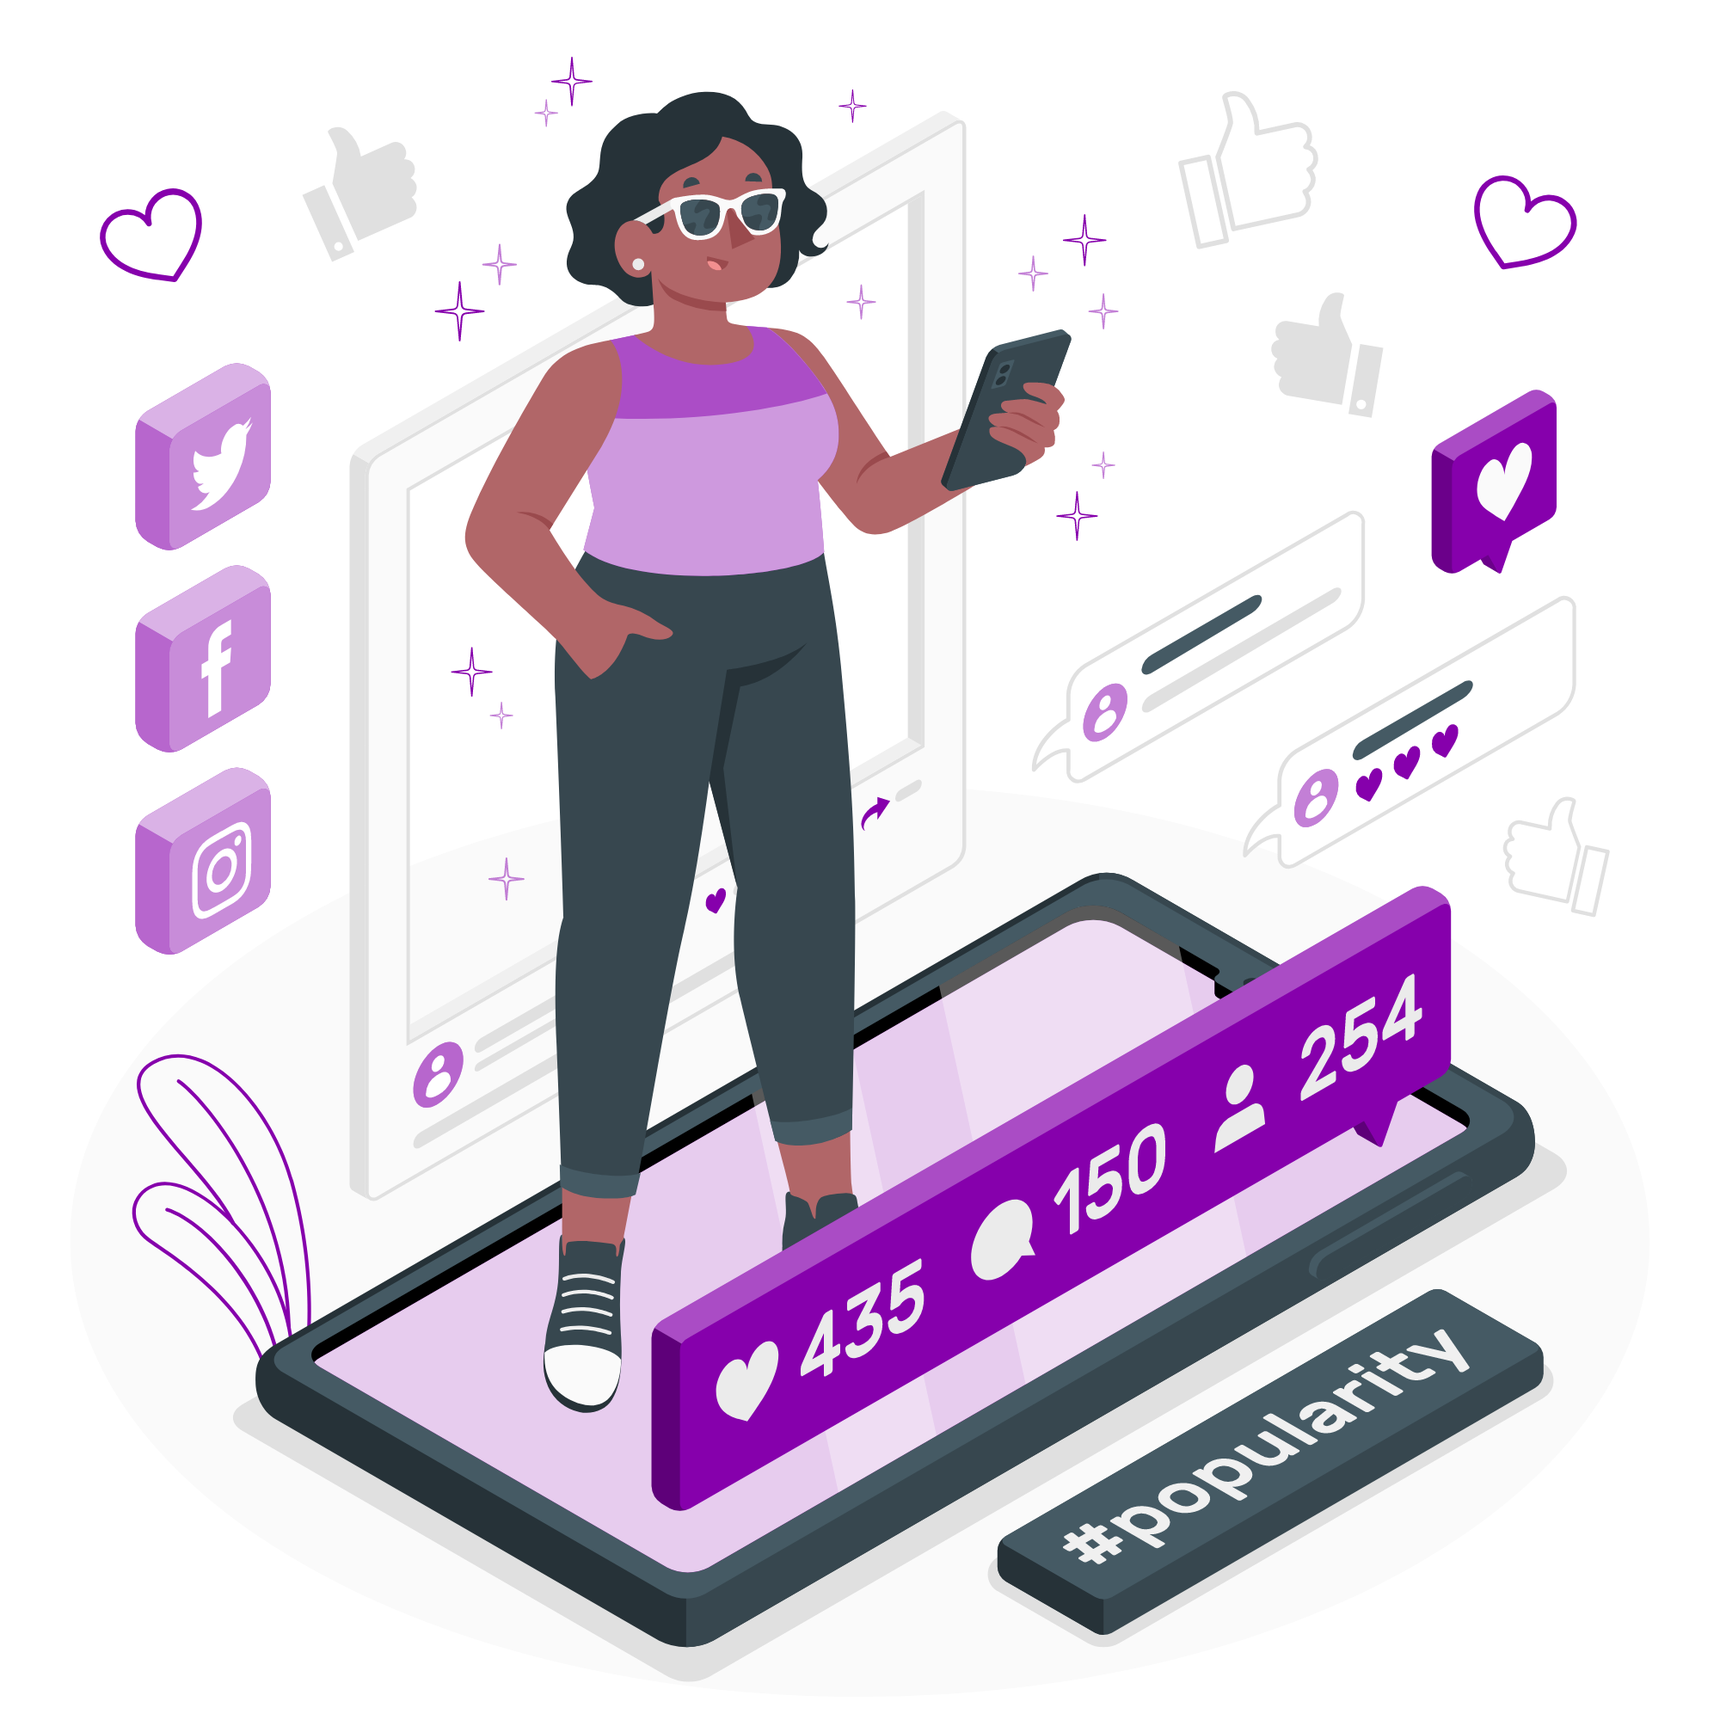
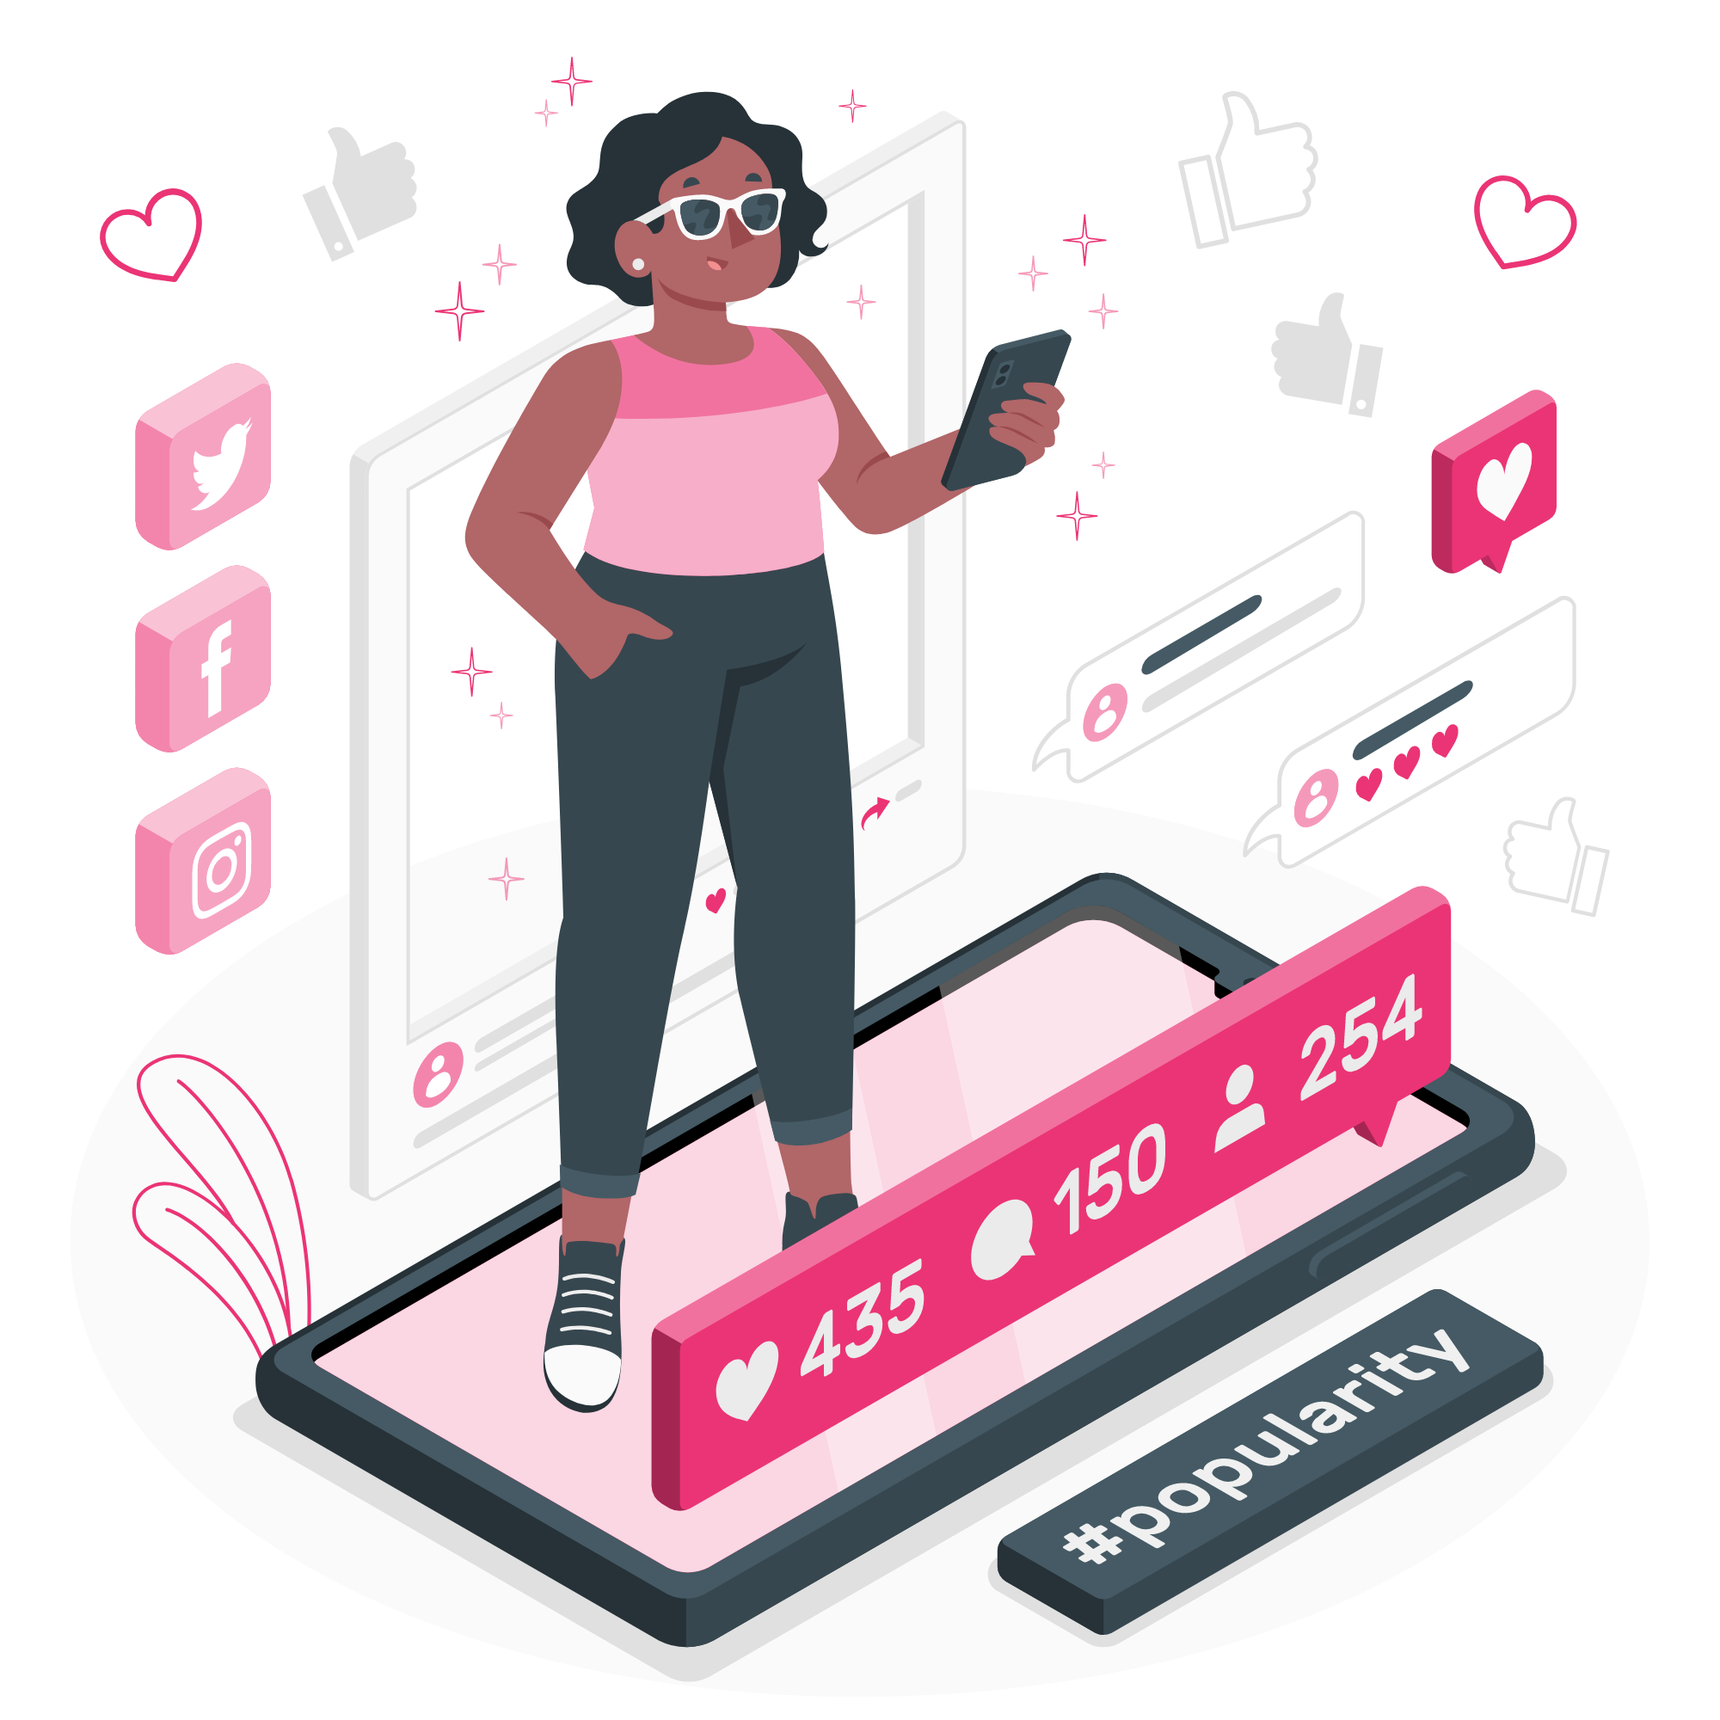
new

diff --git a/src/Components/Feature.jsx b/src/Components/Feature.jsx
@@ -8,7 +8,7 @@ import { motion, useAnimation } from "framer-motion";
 import { Transition } from "@headlessui/react";
 const Feature = () => {
   return (
-    <section className=" relative border-t-4 border-violet-400 bg-gray-900  pb-8">
+    <section className=" relative border-t-4 border-pink-600 bg-gray-900  pb-8">
       <img src={Background} className=" invisible sm: visible md:visible bg-gray-100 h-full w-full bg-local absolute opacity-[0.15] "></img>
       <div className="py-8 px-4 mx-auto max-w-screen-xl font-Poppins lg:py-16 lg:px-16  rounded-md">
         <div className="mx-auto max-w-screen-md text-center mb-8 lg:mb-12">
@@ -24,7 +24,7 @@ const Feature = () => {
                 >
           <h2 className=" py-2 text-3xl md:text-5xl sm:text-4xl tracking-tight  font-medium text-gray-900 dark:text-white">
             We bring great results through
-            <p className="text-violet-400 md:py-6 font-extrabold">
+            <p className="text-pink-600 md:py-6 font-extrabold">
               MEANINGFUL{" "}
               <span className="text-white font-medium">Advertising</span>{" "}
             </p>
@@ -62,7 +62,7 @@ const Feature = () => {
                     visible: { opacity: 1, y: 0 },
                   }}
                 >
-          <div className="flex flex-col  p-6 mx-auto max-w-lg text-center text-gray-900  rounded-lg border  shadow border-violet-300 xl:p-8 bg-black bg-opacity-50  text-white  shadow-md shadow-violet-600 ">
+          <div className="flex flex-col  p-6 mx-auto max-w-lg text-center text-gray-900  rounded-lg border  shadow border-pink-600 xl:p-8 bg-black bg-opacity-50  text-white  shadow-md shadow-pink-600 ">
             
             <p className="font-Medium py-5 text-2xl sm:text-3xl md:text-2xl text-white">
               The Number of Followers Matters, Influencer Does Too!
@@ -85,7 +85,7 @@ const Feature = () => {
                 </div>
               </li>
             </ul>
-            <button className="rounded-xl border shadow-md shadow-violet-700 hover:text-black text-white bg-violet-500 border-violet-500 w-[150px]  font-semibold my-6 mx-auto py-3 ">
+            <button className="rounded-xl border shadow-md shadow-pink-800 hover:text-black text-white bg-pink-600 border-pink-600 w-[150px]  font-semibold my-6 mx-auto py-3 ">
               {" "}
               Learn More!
             </button>
@@ -102,7 +102,7 @@ const Feature = () => {
                     visible: { opacity: 1, y: 0 },
                   }}
                 >
-          <div className="flex flex-col p-6 mx-auto max-w-lg text-center text-gray-900  rounded-lg border  shadow border-violet-300 xl:p-8 bg-black  text-white bg-black bg-opacity-50 shadow-md shadow-violet-600 ">
+          <div className="flex flex-col p-6 mx-auto max-w-lg text-center text-gray-900  rounded-lg border  shadow border-pink-600 xl:p-8 bg-black  text-white bg-black bg-opacity-50 shadow-md shadow-pink-600 ">
             <p className="font-medium py-5 text-2xl sm:text-3xl md:text-2xl text-white">
               We Care For Our Influencers More Than Anyone
             </p>
@@ -124,7 +124,7 @@ const Feature = () => {
                 </div>
               </li>
             </ul>
-            <button className="rounded-xl border shadow-md shadow-violet-700 hover:text-black text-white bg-violet-500 border-violet-500 w-[150px] font-semibold my-6 mx-auto py-3 ">
+            <button className="rounded-xl border shadow-md shadow-pink-800 hover:text-black text-white bg-pink-600 border-pink-600 w-[150px] font-semibold my-6 mx-auto py-3 ">
               {" "}
               Learn More!
             </button>
@@ -141,7 +141,7 @@ const Feature = () => {
                     visible: { opacity: 1, y: 0 },
                   }}
                 >
-          <div className="flex flex-col p-6 mx-auto max-w-lg text-center text-gray-900  rounded-lg border  shadow border-violet-300 xl:p-8 bg-black  text-white bg-black bg-opacity-50 shadow-md shadow-violet-600 ">
+          <div className="flex flex-col p-6 mx-auto max-w-lg text-center text-gray-900  rounded-lg border  shadow border-pink-600 xl:p-8 bg-black  text-white bg-black bg-opacity-50 shadow-md shadow-pink-600 ">
             <p className="font-medium py-5 text-2xl sm:text-3xl md:text-2xl text-white">
               The Value Of Working With Us, With Right Campaign Goals &
               KPI
@@ -165,7 +165,7 @@ const Feature = () => {
               </li>
             </ul>
 
-            <button className="rounded-xl border shadow-md shadow-violet-700 hover:text-black text-white bg-violet-500 border-violet-500 w-[150px] font-semibold my-6 mx-auto py-3 ">
+            <button className="rounded-xl border shadow-md shadow-pink-800 hover:text-black text-white bg-pink-600 border-pink-600 w-[150px] font-semibold my-6 mx-auto py-3 ">
               {" "}
               Learn More!
             </button>

diff --git a/src/Components/Works.jsx b/src/Components/Works.jsx
@@ -21,7 +21,7 @@ const Works = () => {
                   }}
                 ><h2 className="mb-2 text-3xl md:text-5xl  sm:text-4xl tracking-tight font-medium text-gray-900">
             ZERO fees from Influencers
-            <p className="text-violet-500 md:py-3 font-extrabold">
+            <p className="text-pink-600 md:py-3 font-extrabold">
               until you earn{" "}
               <span className="text-black font-medium">
                 your first 1 Million
@@ -58,7 +58,7 @@ const Works = () => {
                   <div className="h-full w-10 absolute inset-0 flex items-center justify-center">
                     <div className="h-full w-1 bg-gray-200 pointer-events-none" />
                   </div>
-                  <div className="flex-shrink-0 w-10 h-10 rounded-full bg-violet-500 inline-flex items-center justify-center text-white relative z-10">
+                  <div className="flex-shrink-0 w-10 h-10 rounded-full bg-pink-600 inline-flex items-center justify-center text-white relative z-10">
                     <svg
                       fill="none"
                       stroke="currentColor"
@@ -97,7 +97,7 @@ const Works = () => {
                   <div className="h-full w-10 absolute inset-0 flex items-center justify-center">
                     <div className="h-full w-1 bg-gray-200 pointer-events-none" />
                   </div>
-                  <div className="flex-shrink-0 w-10 h-10 rounded-full bg-violet-500 inline-flex items-center justify-center text-white relative z-10">
+                  <div className="flex-shrink-0 w-10 h-10 rounded-full bg-pink-600 inline-flex items-center justify-center text-white relative z-10">
                     <svg
                       fill="none"
                       stroke="currentColor"
@@ -134,7 +134,7 @@ const Works = () => {
                   <div className="h-full w-10 absolute inset-0 flex items-center justify-center">
                     <div className="h-full w-1 bg-gray-200 pointer-events-none" />
                   </div>
-                  <div className="flex-shrink-0 w-10 h-10 rounded-full bg-violet-500 inline-flex items-center justify-center text-white relative z-10">
+                  <div className="flex-shrink-0 w-10 h-10 rounded-full bg-pink-600 inline-flex items-center justify-center text-white relative z-10">
                     <svg
                       fill="none"
                       stroke="currentColor"
@@ -184,11 +184,11 @@ const Works = () => {
       <div className="py-16 px-14 mx-auto max-w-screen-xl font-Poppins lg:py-20 lg:px-16   sm:px-14  ">
       
         <div className="mx-auto max-w-screen-lg text-center mb-8   lg:mb-12">
-           <h2 className="mb-2 text-xl sm:text-2xl md:text-4xl  p-7   sm:p-10 md:p-14  bg-gradient-to-tr from-black to-violet-500 sm:text-4xl rounded-xl tracking-tight font-medium shadow-lg shadow-gray-700 text-white">
+           <h2 className="mb-2 text-xl sm:text-2xl md:text-4xl  p-7   sm:p-10 md:p-14  bg-gradient-to-r from-blue-900 to-pink-900 sm:text-4xl rounded-xl tracking-tight font-medium shadow-lg shadow-gray-700 text-white">
            GET PAID TO TELL CAPTIVATING STORIES FOR AWESOME BRANDS
           </h2>
 
-          <button className="rounded-xl border text-white hover:text-black bg-violet-600 border-violet-500 w-[150px] font-bold my-10 mx-auto py-3 shadow-md shadow-violet-900">
+          <button className="rounded-xl border text-white hover:text-black bg-pink-600 border-pink-600 w-[150px] font-bold my-10 mx-auto py-3 shadow-md shadow-pink-800">
             {" "}
             Apply Now !
           </button>

diff --git a/src/Components/Hero.jsx b/src/Components/Hero.jsx
@@ -32,7 +32,7 @@ export const Hero = () => {
           >
             <div>
               We are One Stop
-              <span className="pl-3 text-violet-400 font-Poppins ">
+              <span className="pl-3 text-pink-600 font-Poppins ">
                 Influencer
               </span>
               <br />
@@ -49,7 +49,7 @@ export const Hero = () => {
                   }}
                 >
           <a>
-            <div className="pt-2 sm:pt-3 md:pt-7 font-Poppins  text-violet-400">
+            <div className="pt-2 sm:pt-3 md:pt-7 font-Poppins  text-pink-600">
               Marketing Agency
             </div>
           </a>
@@ -69,7 +69,7 @@ export const Hero = () => {
           We help both Influencers and Brands to stay on top of their game.
         </p></motion.div>
 
-        {/* <button className="rounded-xl border  hover:text-violet-200  border-violet-500 w-[150px] font-medium my-10 mx-auto py-3 ">
+        {/* <button className="rounded-xl border  hover:text-pink-600  border-pink-600 w-[150px] font-medium my-10 mx-auto py-3 ">
           {" "}
           Get Started
         </button> */}
@@ -85,14 +85,14 @@ export const Hero = () => {
                 >
         <a
           href="#_"
-          class="relative inline-flex items-center justify-start inline-block px-5 py-3 overflow-hidden font-bold rounded-full group rounded-xl border  hover:text-violet-200  border-violet-500 w-[150px] font-medium my-10 mx-auto py-3"
+          class="relative inline-flex items-center justify-start inline-block px-5 py-3 overflow-hidden font-bold rounded-full group rounded-xl border  hover:text-pink-600  border-pink-500 w-[150px] font-medium my-10 mx-auto py-3"
         >
-          <span class="w-32 h-32 rotate-45 translate-x-12 -translate-y-2 absolute left-0 top-0 bg-violet-400 opacity-[3%]"></span>
+          <span class="w-32 h-32 rotate-45 translate-x-12 -translate-y-2 absolute left-0 top-0 bg-pink-600 opacity-[3%]"></span>
           <span class="absolute top-0 left-0 w-48 h-48 -mt-1 transition-all duration-500 ease-in-out rotate-45 -translate-x-56 -translate-y-24 bg-white opacity-100 group-hover:-translate-x-8"></span>
           <span class="relative w-full text-center text-white transition-colors duration-200 ease-in-out group-hover:text-gray-900">
             Get Started
           </span>
-          <span class="absolute inset-0 border border-violet-500 rounded-full"></span>
+          <span class="absolute inset-0 border border-pink-500 rounded-full"></span>
         </a>
         </motion.div>
       </div>

diff --git a/src/Components/Navbar.jsx b/src/Components/Navbar.jsx
@@ -4,7 +4,7 @@ import { motion, useAnimation } from "framer-motion";
 import { Transition } from "@headlessui/react";
 function Navbar() {
   return (
-    <nav className=" border-gray-700 px-2   py-6 ">
+    <nav className=" border-gray-700 px-2  py-6 ">
       <div className="container flex flex-wrap  items-center justify-between mx-auto px-5 ">
       <motion.div
                   initial="hidden"
@@ -24,7 +24,7 @@ function Navbar() {
           /> */}
             
 
-          <span className="self-center text-4xl font-bold whitespace-nowrap text-violet-400">
+          <span className="self-center text-4xl font-bold whitespace-nowrap text-pink-600">
            Logo
           </span>
           
@@ -67,7 +67,7 @@ function Navbar() {
                 >
               <a
                 href="#"
-                className="block py-2  h-8 pl-3 pr-4 text-gray-300 bg-violet-400 border-b-2 border-violet-400 hover:text-purple-300 rounded md:bg-transparent   md:p-0 "
+                className="block py-2  h-8 pl-3 pr-4 text-gray-300  border-b-2 border-pink-600 hover:text-purple-300 rounded    md:p-0 "
                 aria-current="page" 
               >
                 Home
@@ -87,7 +87,7 @@ function Navbar() {
                 >
               <a
                 href="#"
-                className="block py-2 pl-3 pr-4 text-gray-300  bg-violet-400 hover:text-purple-900 rounded md:bg-transparent   md:p-0">
+                className="block py-2 pl-3 pr-4 text-gray-300  bg-pink-600 hover:text-purple-900 rounded md:bg-transparent   md:p-0">
                 Brands
               </a>
               </motion.div>
@@ -106,7 +106,7 @@ function Navbar() {
                 >
               <a
                 href="#"
-                className="block py-2 pl-3 pr-4 text-gray-300 bg-violet-400 hover:text-purple-300 rounded  md:bg-transparent   md:p-0">
+                className="block py-2 pl-3 pr-4 text-gray-300 bg-pink-600 hover:text-purple-300 rounded  md:bg-transparent   md:p-0">
                 Influencers
               </a>
               </motion.div>
@@ -124,7 +124,7 @@ function Navbar() {
                 >
               <a
                 href="#"
-                className="block py-2 pl-3 pr-4 text-gray-300 bg-violet-400 hover:text-purple-300 rounded md:bg-transparent   md:p-0">
+                className="block py-2 pl-3 pr-4 text-gray-300 bg-pink-600 hover:text-purple-300 rounded md:bg-transparent   md:p-0">
                 Contact Us
               </a>
               </motion.div>

diff --git a/src/Components/Footer.jsx b/src/Components/Footer.jsx
@@ -3,10 +3,10 @@ import React from "react";
 const Footer = () => {
   return (
     <div>
-      <div className=" mx-auto  font-Poppins   bg-gray-100 ">
-        <footer className="p-4 bg-white  shadow md:px-6  md:py-8  dark:bg-gray-900">
+      <div className=" mx-auto  font-Poppins   ">
+        <footer className="p-4   shadow md:px-6  md:py-8  bg-gray-900">
           <div className="sm:flex sm:items-center px-10 sm:justify-between">
-            <div className="text-violet-400 text-xl font-bold">Logo</div>
+            <div className="text-pink-600 text-xl font-bold">Logo</div>
             {/* <a
               href="https://flowbite.com/"
               className="flex items-center mb-4 sm:mb-0"
@@ -16,11 +16,11 @@ const Footer = () => {
                 className="h-8 mr-3"
                 alt="Flowbite Logo"
               />
-              <span className="self-center text-2xl font-semibold whitespace-nowrap dark:text-white">
+              <span className="self-center text-2xl font-semibold whitespace-nowrap text-white">
                 Flowbite
               </span>
             </a> */}
-            <ul className="flex flex-wrap items-center mb-6 text-sm text-gray-500 sm:mb-0 dark:text-gray-400">
+            <ul className="flex flex-wrap items-center mb-6 text-sm text-gray-300 sm:mb-0 ">
               <li>
                 <a href="#" className="mr-4 hover:underline md:mr-6 ">
                   Home
@@ -43,15 +43,13 @@ const Footer = () => {
               </li>
             </ul>
           </div>
-          <hr className="my-6 border-gray-200 sm:mx-auto dark:border-gray-700 lg:my-8" />
-          <span className="block text-sm text-gray-500 sm:text-center dark:text-gray-400">
+          <hr className="my-6 border-gray-500 sm:mx-auto lg:my-8" />
+          <span className="block text-sm text-gray-500 sm:text-center">
             Copyrights © 2022{" "}
-            <span className="text-purple-600">   Srishti Suratkal
+            <a href="https://www.freelancer.com/u/srish2702" className="text-pink-600">   Srishti Suratkal
          
-            {/* <a href="https://flowbite.com/" className="hover:underline">
-              Flowbite™
-            </a> */}
-            <span className="text-white"> . All Rights Reserved.</span></span>
+            
+            <a className="text-white"> . All Rights Reserved.</a></a>
            
           </span>
         </footer>
